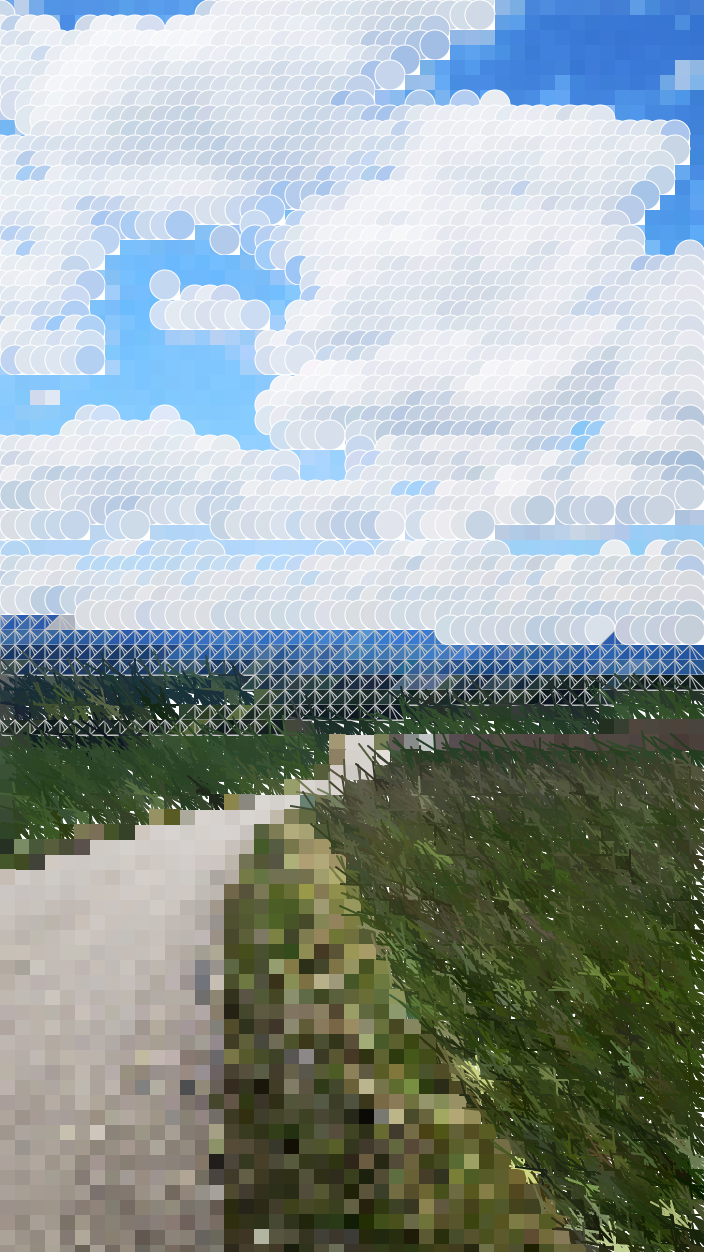
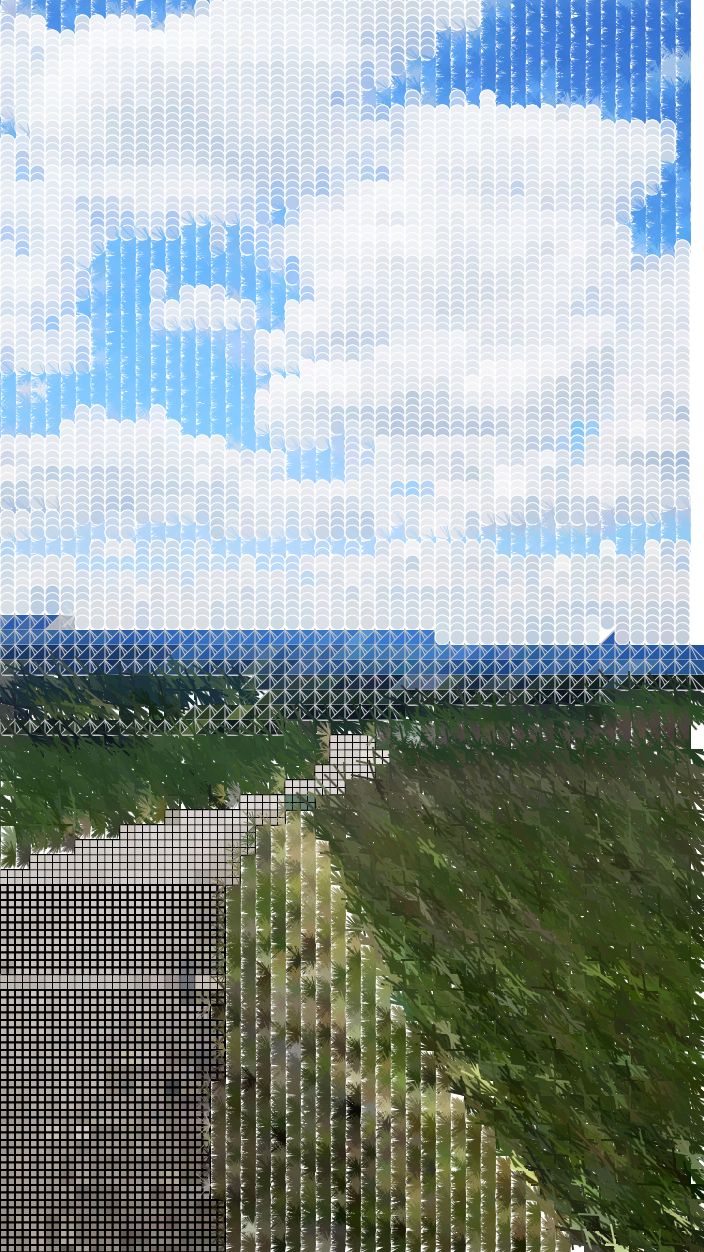
this

diff --git a/sketch.js b/sketch.js
@@ -2,9 +2,9 @@ let sourceImg=null;
 let maskImg=null;
 let renderCounter=0;
 
-let sourceFile = "maibaum.jpg";
-let maskFile   = "maibaum.png";
-let outputFile = "artwork_1.png";
+let sourceFile = "Denkmal.jpg";
+let maskFile   = "denkmalMask.png";
+let outputFile = "artwork_2.png";
 
 function preload() {
 
@@ -79,6 +79,7 @@ function draw () {
       }
       else if (mask[0]>254) {
         stroke(pixl);
+        strokeWeight(2);
         // strokeWeight(2);
         line(x,y,x+chunkWidth,y+chunkHeight);
         line(x,y,x2,y2);
